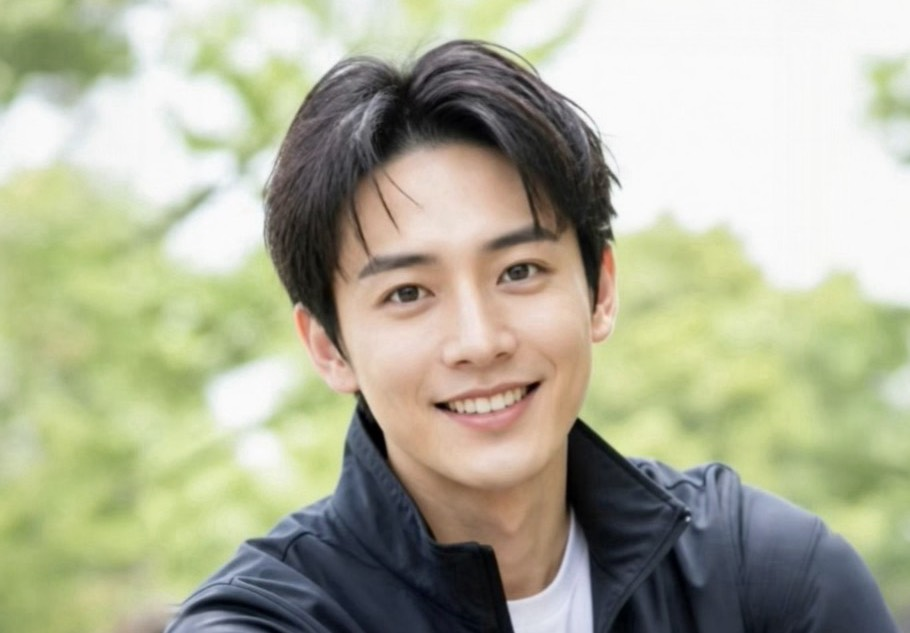
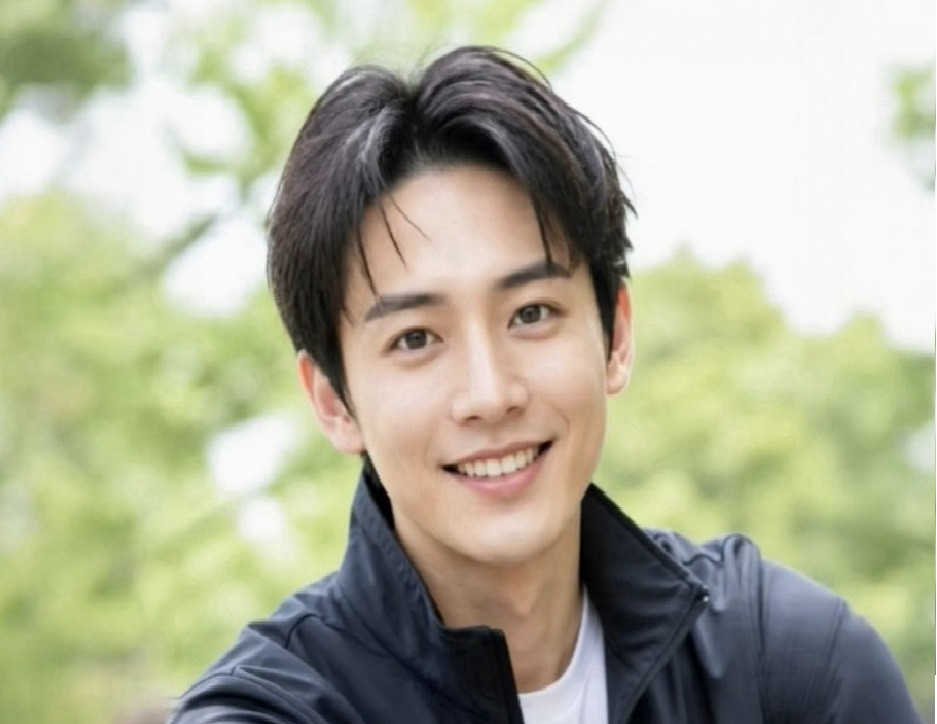
resized pictures and standardized headings on landing page

diff --git a/app/page.tsx b/app/page.tsx
@@ -31,7 +31,7 @@ export default function Home() {
       {/* --- HERO SECTION --- */}
       {/* Aspect-square on mobile keeps the space large enough to accommodate the bigger text comfortably */}
 {/* CHANGED: Lowered the height values to make the image length shorter vertically, keeping full viewport width */}
-<section className="relative w-screen left-1/2 right-1/2 -ml-[50vw] -mr-[50vw] h-[390px]  md:h-[430px] overflow-hidden rounded-none shadow-sm">
+<section className="bg-pink-200 relative w-screen left-1/2 right-1/2 -ml-[50vw] -mr-[50vw] h-[390px]  md:h-[430px] overflow-hidden rounded-none shadow-sm">
   {/* Background Image */}
   <img
     src="/cuteGirl1.jpg"
@@ -231,12 +231,12 @@ export default function Home() {
 <section className="w-full px-4 md:px-8 py-2">
 
   {/* Optional subtle header */}
-  <div className="max-w-5xl mx-auto mb-10">
-    <span className="text-sm font-bold tracking-wider text-rose-500 uppercase">
+  <div className="max-w-5xl mx-auto mb-10 text-center">
+    <span className="text-sm font-black tracking-[0.3em] uppercase text-rose-500">
       Philosophy
     </span>
 
-    <h2 className="mt-3 text-2xl md:text-4xl font-black text-gray-900 leading-tight">
+    <h2 className="mt-3 text-3xl md:text-5xl font-black text-gray-900 leading-tight">
       梅田エリアにおける婚活の現実と<br />
       大阪梅田ドクターズ結婚相談所のアプローチ
     </h2>
@@ -348,7 +348,7 @@ export default function Home() {
       </p>
 
       {/* CTA */}
-      <div className="pt-2">
+      <div className="pt-2 flex justify-center">
         <Link
           href="/three-respects"
           className="inline-flex items-center justify-center rounded-full bg-gradient-to-r from-blue-300 to-purple-700 px-7 py-4 text-base md:text-lg font-black text-white shadow-lg transition-all duration-300 hover:scale-105 hover:shadow-xl"
@@ -359,27 +359,13 @@ export default function Home() {
         </Link>
       </div>
 
-
-
     </div>
   </div>
 </section>
 
 <section className="w-full px-4 md:px-8 py-4 bg-white">
   <div className="max-w-5xl mx-auto">
-
-    {/* Top Image */}
-    <div className="mb-6">
-      <Image
-        src="/doctors1.jpg"
-        alt="大阪梅田ドクターズ結婚相談所"
-        width={1200}
-        height={800}
-        className="w-full rounded-3xl object-cover shadow-lg"
-      />
-    </div>
-
-    {/* Heading */}
+        {/* Heading */}
     <div className="text-center mb-6">
       <span className="text-sm font-black tracking-[0.3em] uppercase text-rose-500">
         SPECIAL INTRODUCTIONS
@@ -391,6 +377,20 @@ export default function Home() {
 
       <div className="mx-auto mt-4 h-1 w-16 rounded-full bg-rose-300" />
     </div>
+
+
+    {/* Top Image */}
+    <div className="mb-6">
+      <Image
+        src="/doctors1.jpg"
+        alt="大阪梅田ドクターズ結婚相談所"
+ 
+                  width={1200}
+          height={800}
+          className="w-full rounded-3xl object-cover shadow-lg"
+      />
+    </div>
+
 
     {/* Text */}
     <div className="max-w-5xl mx-auto text-gray-700 leading-relaxed text-base md:text-lg space-y-5">
@@ -457,20 +457,7 @@ export default function Home() {
 
 <section className="w-full px-4 md:px-8 py-4 bg-white">
   <div className="max-w-5xl mx-auto">
-
-    {/* Top Image */}
-    <div className="mb-6">
-      <Image
-        src="/man2.jpg"
-        alt="誠実で笑顔が可愛い最高の男性との出会い"
-        width={1200}
-        height={800}
-        className="w-full rounded-3xl object-cover shadow-lg"
-      />
-    </div>
-
-
-    {/* Heading */}
+        {/* Heading */}
     <div className="text-center mb-6">
 
       <span className="text-sm font-black tracking-[0.3em] uppercase text-rose-500">
@@ -487,6 +474,16 @@ export default function Home() {
     </div>
     
 
+    {/* Top Image */}
+    <div className="mb-6">
+      <Image
+        src="/man2.jpg"
+        alt="誠実で笑顔が可愛い最高の男性との出会い"
+          width={1200}
+          height={800}
+          className="w-full rounded-3xl object-cover shadow-lg"
+      />
+    </div>
 
 
     {/* Text */}
@@ -626,12 +623,14 @@ export default function Home() {
     <div className="overflow-hidden rounded-3xl border border-rose-100 bg-gradient-to-br from-white via-rose-50 to-pink-50 shadow-xl">
 
       {/* Top Image */}
-      <div className="relative h-[230px] md:h-[360px] w-full">
+      <div className="relative ">
         <Image
           src={mensMarriage}
           alt="男性の婚活"
-          fill
-          className="object-cover"
+          width={1200}
+          height={800}
+          className="w-full rounded-3xl object-cover shadow-lg"
+          
         />
         <div className="absolute inset-0 bg-gradient-to-t from-black/30 via-transparent to-transparent" />
       </div>
@@ -841,12 +840,13 @@ export default function Home() {
     <div className="overflow-hidden rounded-3xl border border-rose-100 bg-gradient-to-br from-white via-rose-50 to-pink-50 shadow-xl">
 
       {/* Top Image */}
-      <div className="relative h-[330px] md:h-[360px] w-full">
+      <div className="relative w-full">
         <Image
           src={woman3}
           alt="恋愛初心者サポート"
-          fill
-          className="object-cover"
+          width={1200}
+          height={800}
+          className="w-full rounded-3xl object-cover shadow-lg"
         />
         <div className="absolute inset-0 bg-gradient-to-t from-black/25 via-transparent to-transparent" />
       </div>
@@ -960,9 +960,6 @@ export default function Home() {
   </div>
 </Link>
 
-import Link from 'next/link';
-
-// ... inside your component ...
 
 <Link
   href="/beginners"
@@ -1011,12 +1008,13 @@ import Link from 'next/link';
     <div className="overflow-hidden rounded-3xl border border-rose-100 bg-gradient-to-br from-white via-rose-50 to-pink-50 shadow-xl">
 
       {/* Top Image */}
-      <div className="relative h-[360px] md:h-[360px] w-full">
+      <div className="relative w-full">
         <Image
           src={ceremony}
           alt="幸せな結婚"
-          fill
-          className="object-cover"
+          width={1200}
+          height={800}
+          className="w-full rounded-3xl object-cover shadow-lg"
         />
         <div className="absolute inset-0 bg-gradient-to-t from-black/25 via-transparent to-transparent" />
       </div>
@@ -1568,9 +1566,9 @@ import Link from 'next/link';
     <Image
       src="/team1.jpg"
       alt="大阪梅田ドクターズ結婚相談所 チーム"
-      width={1400}
-      height={700}
-      className="w-full rounded-3xl object-cover shadow-lg border border-gray-100"
+          width={1200}
+          height={800}
+          className="w-full rounded-3xl object-cover shadow-lg"
     />
   </div>
 